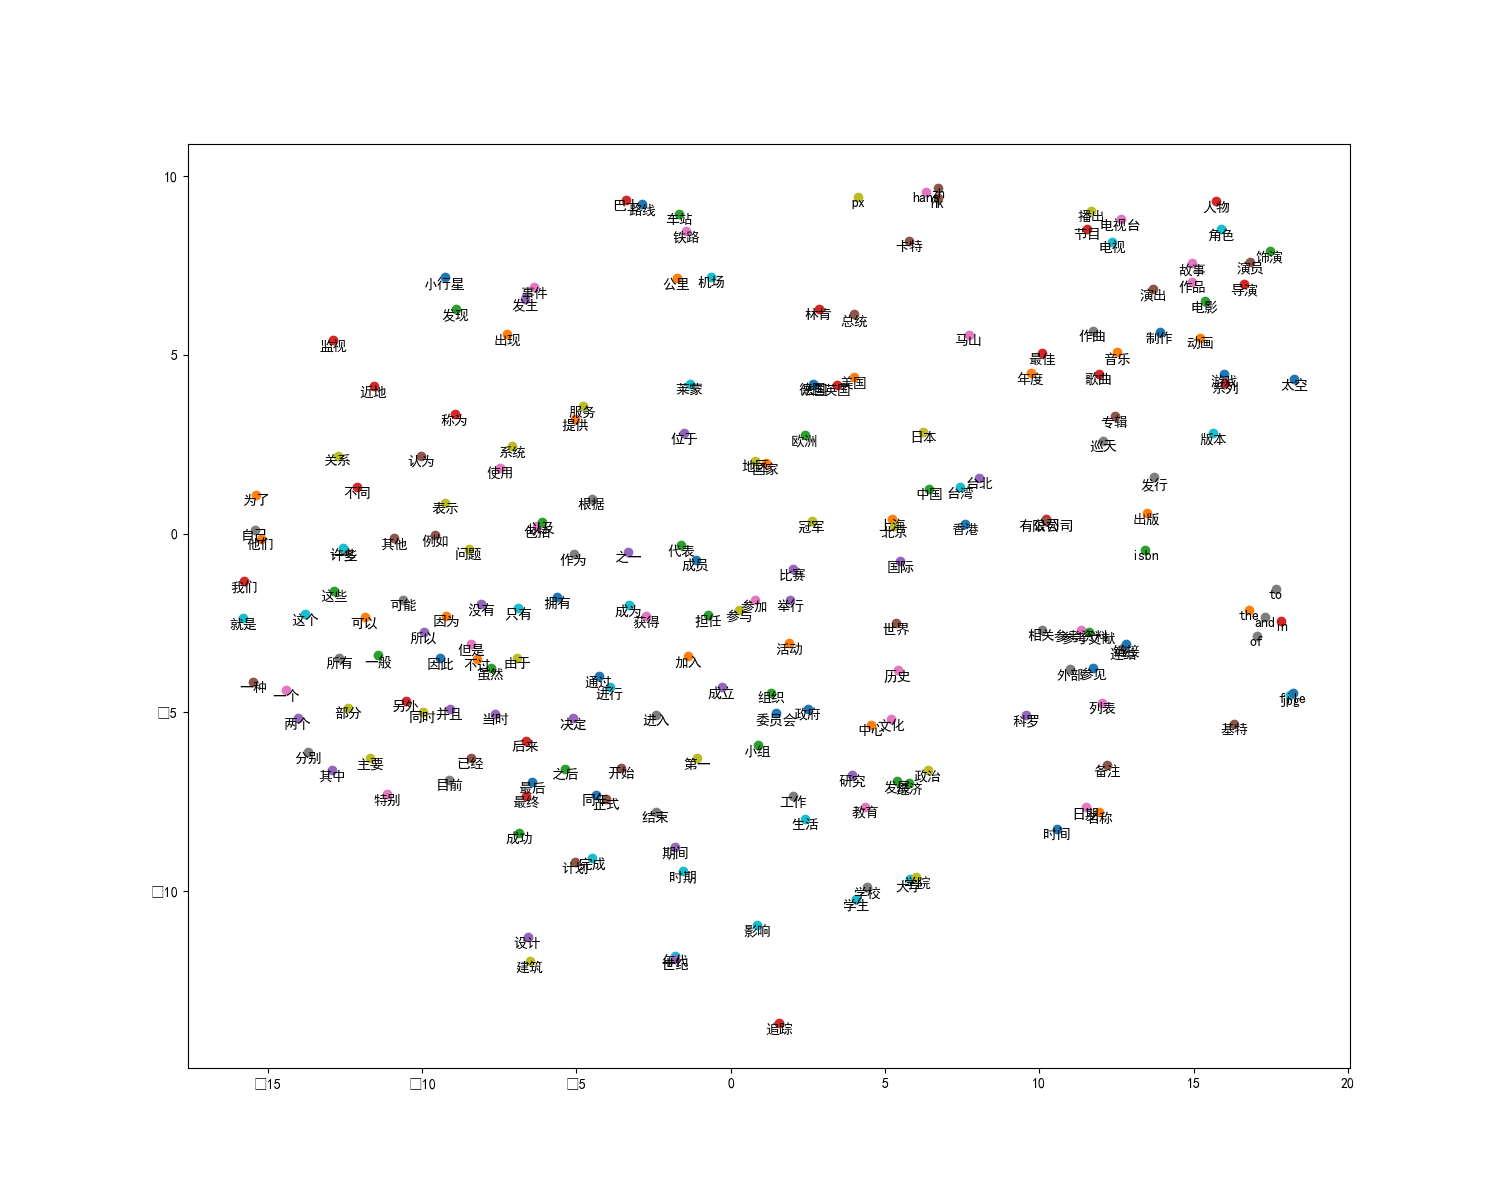
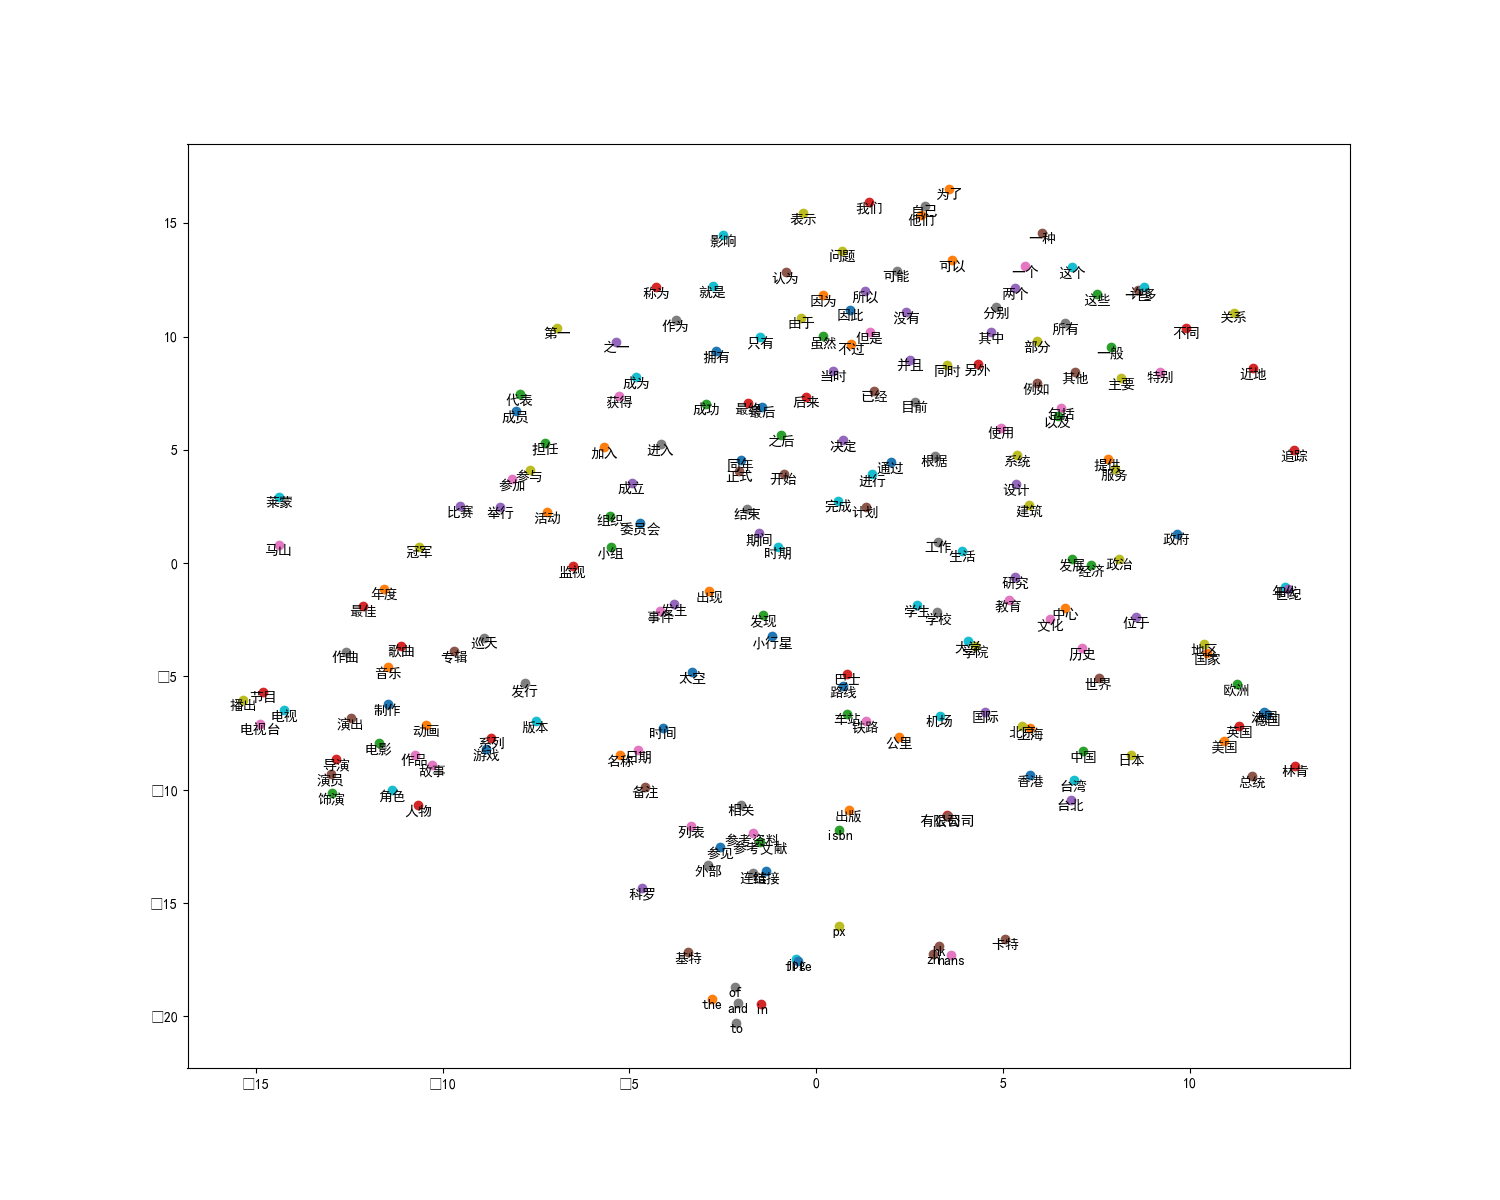
2019/02/19

diff --git a/README.md b/README.md
@@ -20,7 +20,6 @@
 ## 加载并使用模型
 
 使用 main_2.py 加载并使用模型，得到的结果如下：
-
 ```
 ====================================================================================================
 model.wv.most_similar('数学')：
@@ -62,15 +61,33 @@ model.wv.similarity('男人', '女人'):
 
 ## 使用 tensorflow 加载并使用模型
 
+使用 test_tf_128.py 加载并使用模型得到以下结果：
+```
+<tensorflow.python.framework.ops.Graph object at 0x7fd5ee29eef0>
+Nearest to 数学: 物理 应用 理论 科学 化学 天文学 语言学 物理学 哲学 领域
+0.5253779
+['物理', 0.6886327]
+['应用', 0.6369873]
+['理论', 0.6178505]
+['科学', 0.590371]
+['化学', 0.5878555]
+['天文学', 0.5571585]
+['语言学', 0.54534245]
+['物理学', 0.54194874]
+['哲学', 0.5311295]
+['领域', 0.522904]
+早餐
+```
+
+![](./词向量降维可视化.png)
+
+## 其他相关的知识点
+
 - tf.train.import_meta_graph
 - tf.get_default_graph
 - get_tensor_by_name
 - t-SNE 降维并可视化
 - argsort()
-- 
-
-![](./词向量降维可视化.png)
-
 
 ## 参考
 - [word2vec原理(一) CBOW与Skip-Gram模型基础](https://www.cnblogs.com/pinard/p/7160330.html)
